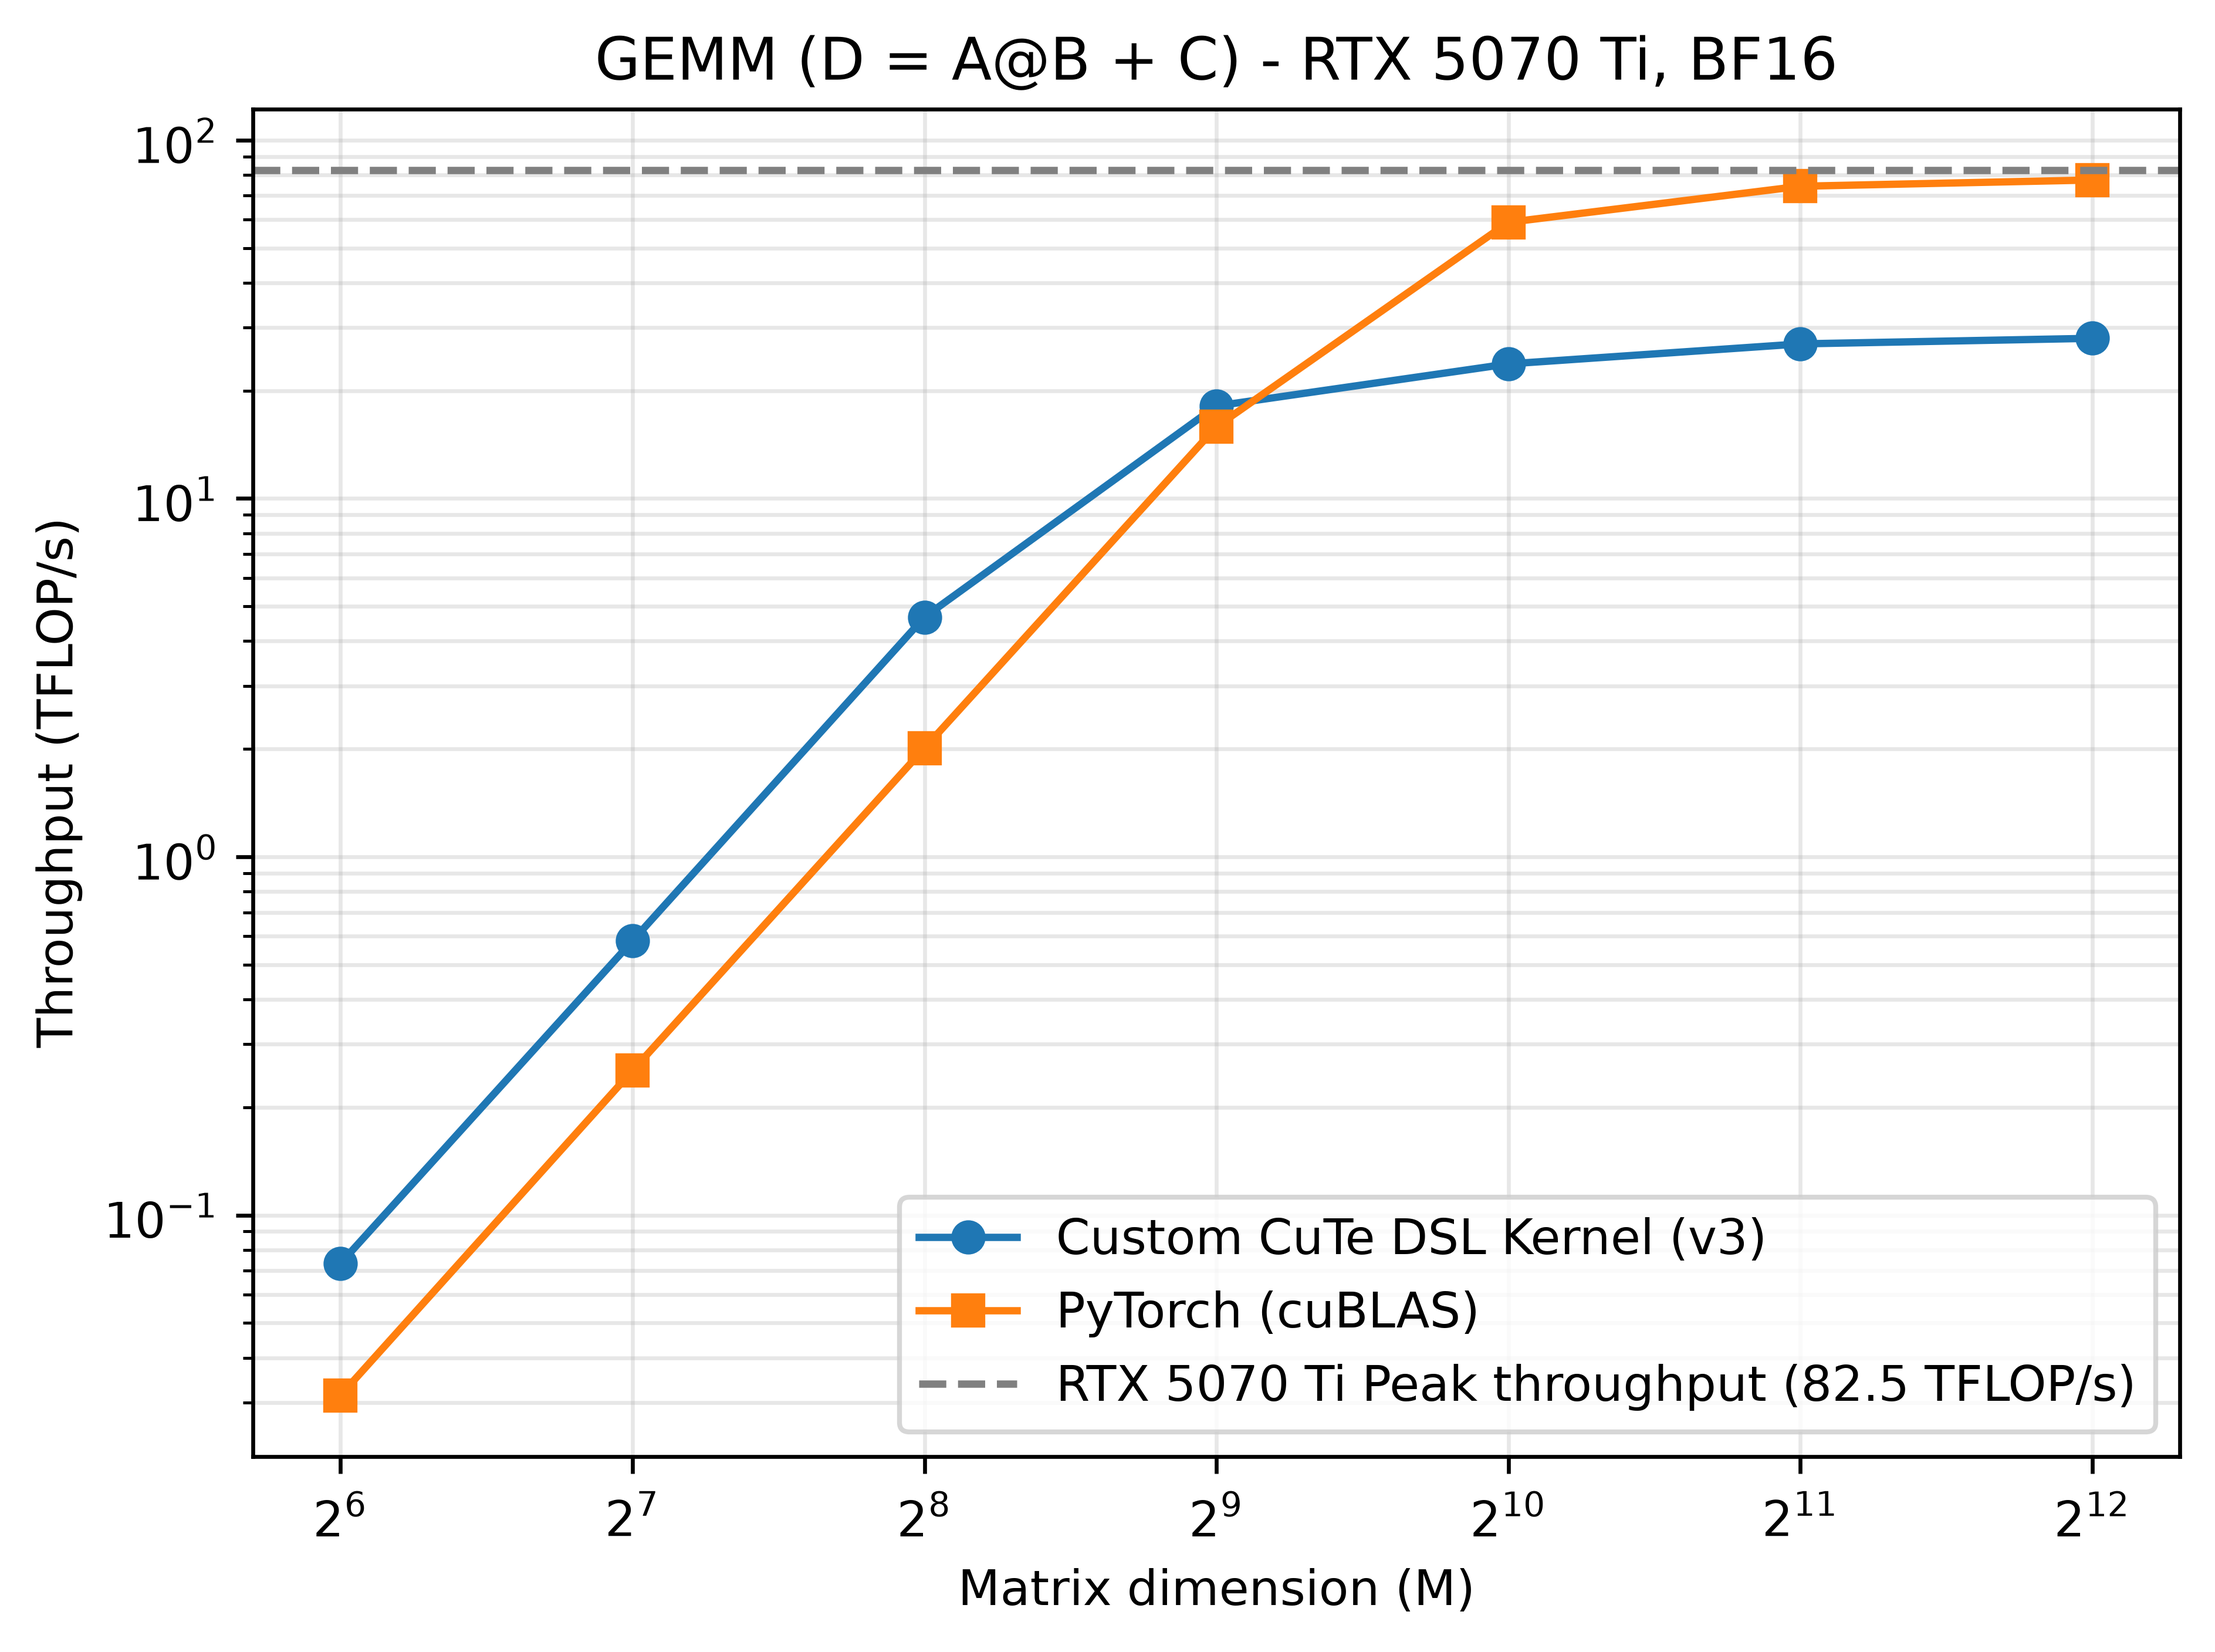
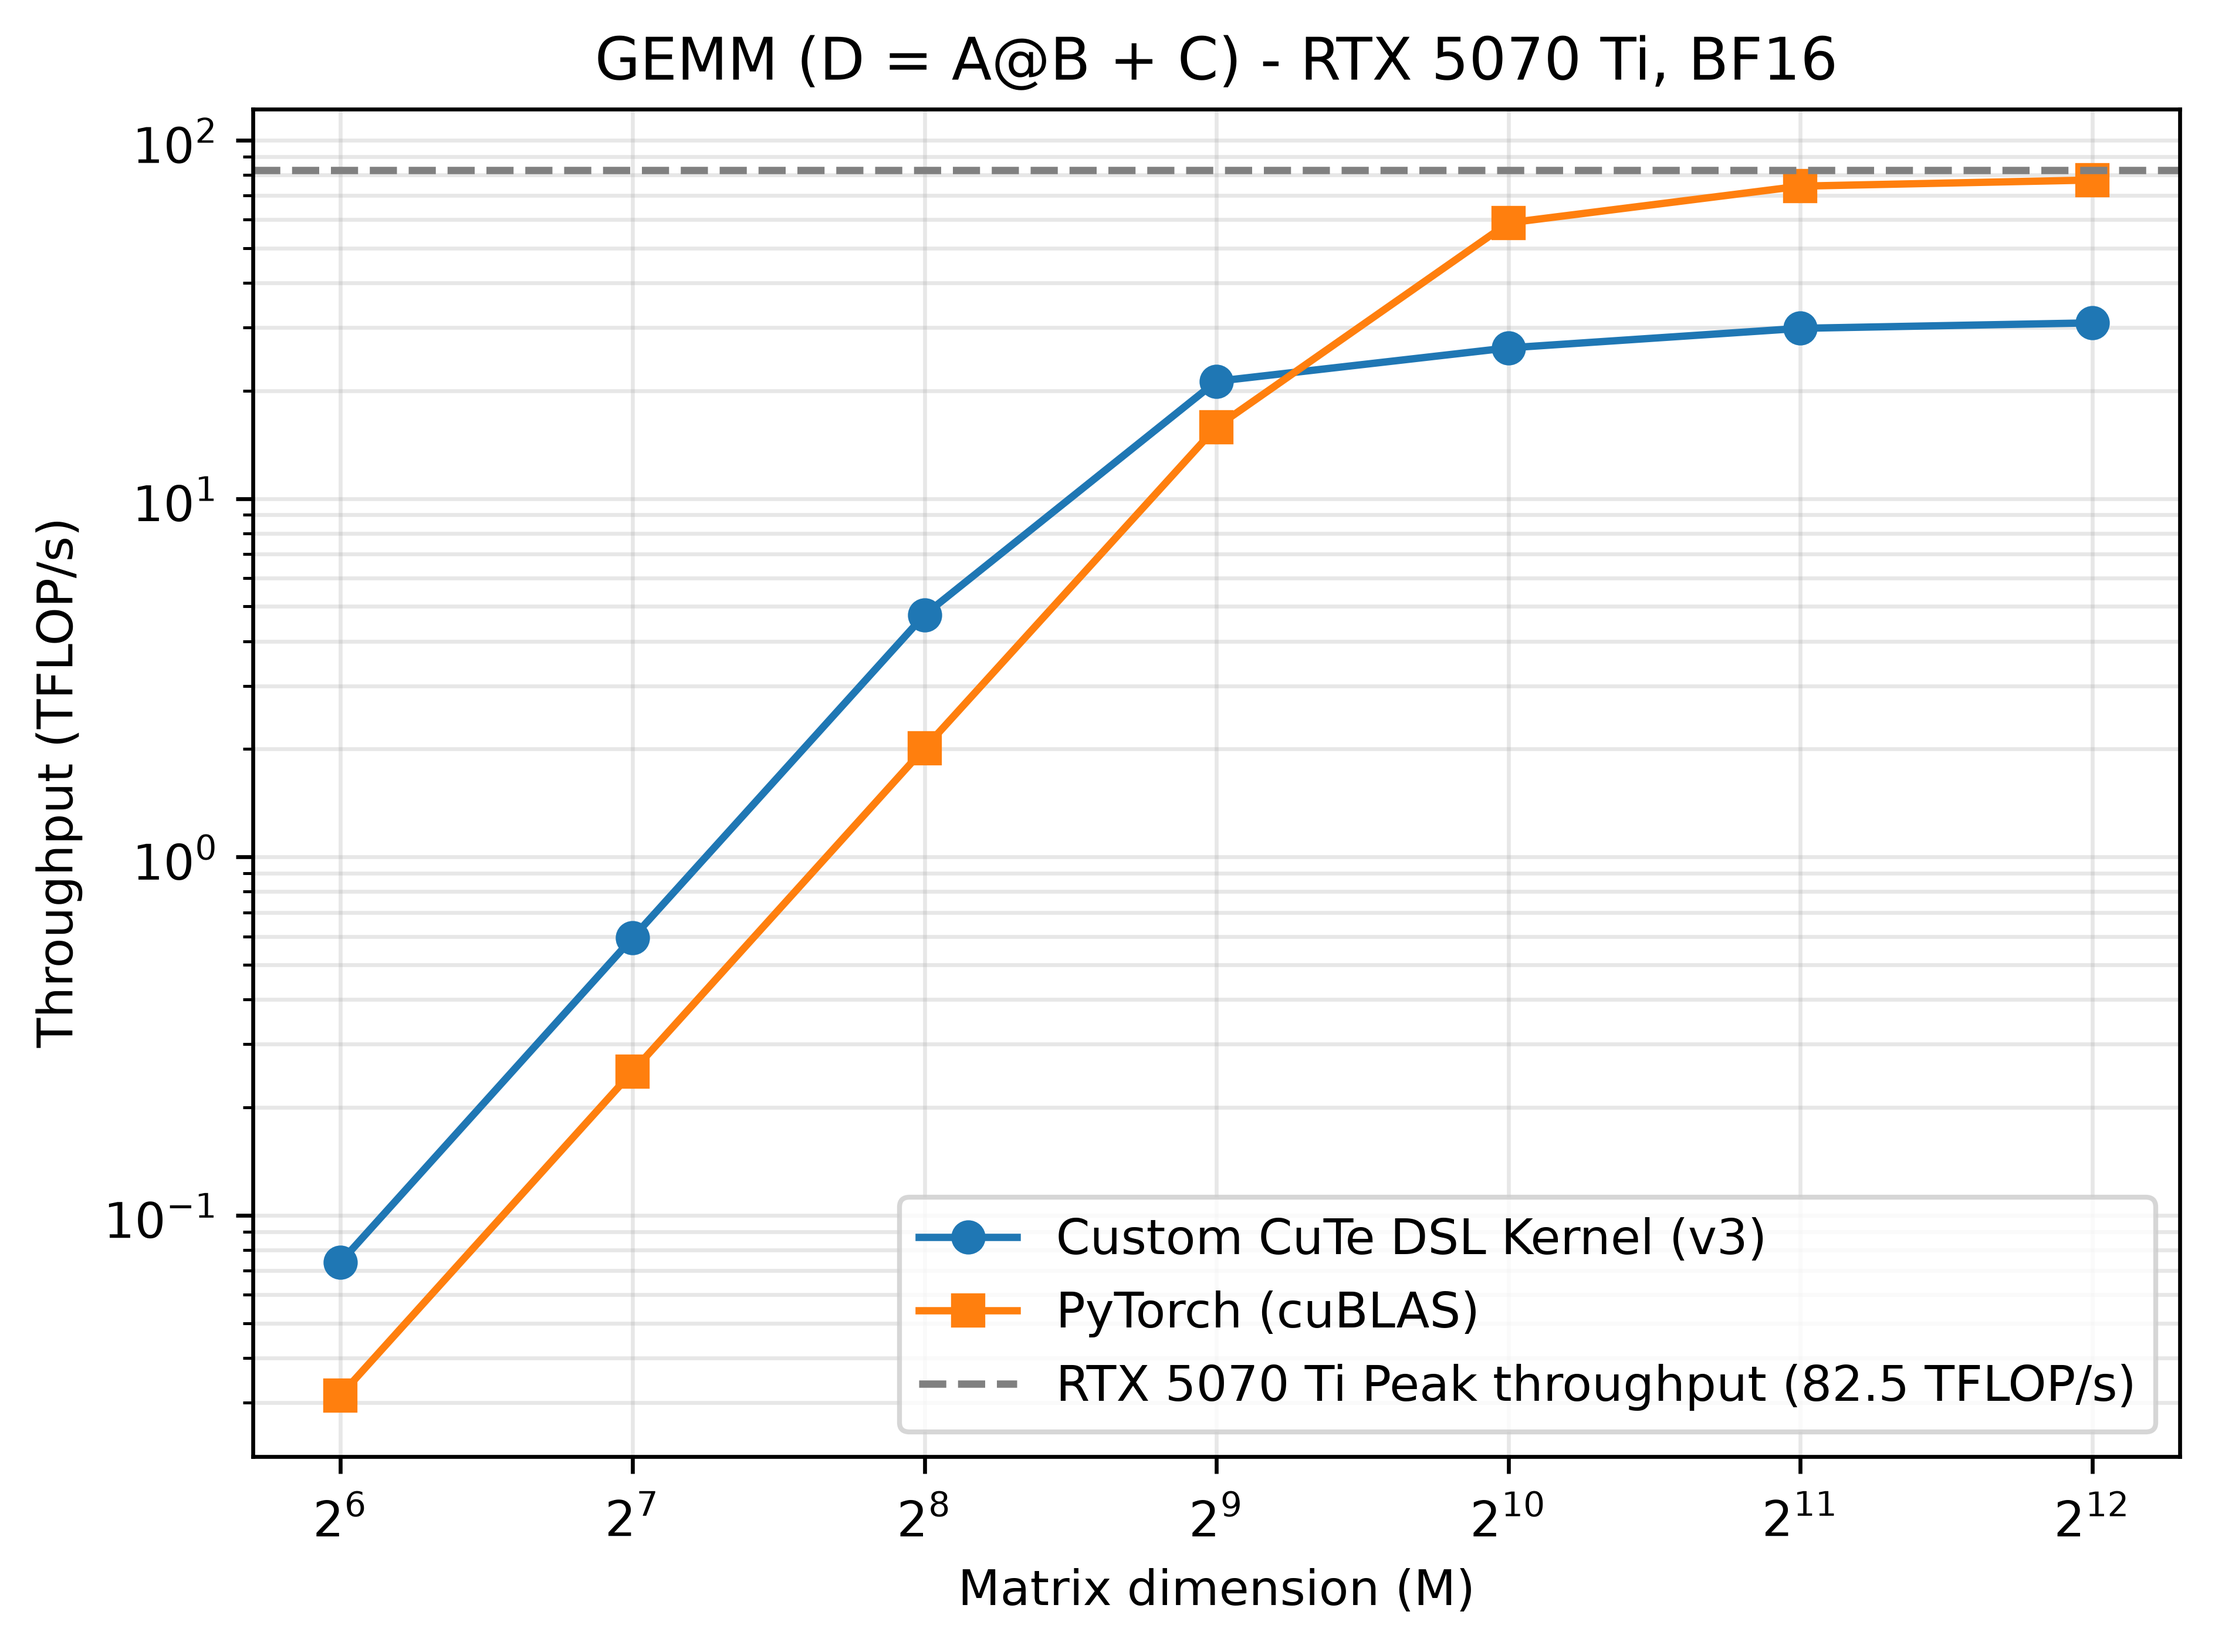
Update gemm_v3 for less catastrophic performance

Changed region(s): [[0.4339, 0.1854, 0.9608, 0.3709]]

diff --git a/src/gemm_v3.py b/src/gemm_v3.py
@@ -6,6 +6,14 @@ from math import prod
 from cutlass.cute.runtime import from_dlpack
 
 
+@cute.jit
+def _flat_stage(s : cute.Tensor, i : cutlass.Numeric):
+    s_grouped = cute.group_modes(s[(None, (None, None, i))], 1, 3)
+    s_coalesced = cute.coalesce(s_grouped, target_profile=(1, 1))
+    return s_coalesced
+
+
+
 @cute.kernel
 def _kernel_gemm_v3(
     mA : cute.Tensor,
@@ -25,6 +33,8 @@ def _kernel_gemm_v3(
     bs_n : cutlass.Constexpr,
     bs_k : cutlass.Constexpr,
     num_stages : cutlass.Constexpr,
+    nb_k_steps : cutlass.Constexpr,
+    size_atom_k : cutlass.Constexpr,
     
 ):
     """
@@ -47,17 +57,14 @@ def _kernel_gemm_v3(
     smem = cutlass.utils.SmemAllocator()
     sA = smem.allocate_tensor(
         mA.dtype,
-        cute.make_ordered_layout((bs_m, num_stages*bs_k), order=(1, 0)),
-        byte_alignment=16,
+        cute.make_ordered_layout((bs_m, (size_atom_k, nb_k_steps, num_stages)), order=(1, 0)),
+        byte_alignment=128,
     )
     sB = smem.allocate_tensor(
         mB.dtype,
-        cute.make_ordered_layout((bs_n, num_stages*bs_k), order=(1, 0)),
-        byte_alignment=16,
+        cute.make_ordered_layout((bs_n, (size_atom_k, nb_k_steps, num_stages)), order=(1, 0)),
+        byte_alignment=128,
     )
-    
-    sA = cute.logical_divide(sA, (None, bs_k))      # dividing sA in num_stages tensors (bs_m, bs_k)
-    sB = cute.logical_divide(sB, (None, bs_k))      # same for sB
     ##
     
     ## Loading C elements to reegisters
@@ -86,8 +93,8 @@ def _kernel_gemm_v3(
         tAgA = thr_copy_g2s_mk.partition_S(gA)
         tAgB = thr_copy_g2s_nk.partition_S(gB)
         
-        tAsA = thr_copy_g2s_mk.partition_D(sA[(None, (None, i))])
-        tAsB = thr_copy_g2s_nk.partition_D(sB[(None, (None, i))])
+        tAsA = thr_copy_g2s_mk.partition_D(_flat_stage(sA, i))
+        tAsB = thr_copy_g2s_nk.partition_D(_flat_stage(sB, i))
         
         cute.copy(thr_copy_g2s_mk, tAgA, tAsA)
         cute.copy(thr_copy_g2s_nk, tAgB, tAsB)
@@ -97,6 +104,7 @@ def _kernel_gemm_v3(
     ## Main loop
     for k in cutlass.range(nb_tiles_k):
         
+        ## Async copy if not out of bound of tile
         if k <= (nb_tiles_k - num_stages):
             
             part_of_tile = (k+num_stages-1)%num_stages
@@ -110,36 +118,63 @@ def _kernel_gemm_v3(
             tAgA = thr_copy_g2s_mk.partition_S(gA)
             tAgB = thr_copy_g2s_nk.partition_S(gB)
             
-            tAsA = thr_copy_g2s_mk.partition_D(sA[(None, (None, part_of_tile))])
-            tAsB = thr_copy_g2s_nk.partition_D(sB[(None, (None, part_of_tile))])
+            tAsA = thr_copy_g2s_mk.partition_D(_flat_stage(sA, part_of_tile))
+            tAsB = thr_copy_g2s_nk.partition_D(_flat_stage(sB, part_of_tile))
             
             cute.copy(thr_copy_g2s_mk, tAgA, tAsA)
             cute.copy(thr_copy_g2s_nk, tAgB, tAsB)
-            
+        ##
+        
         cute.arch.cp_async_commit_group()
         cute.arch.cp_async_wait_group(num_stages-1)
         cute.arch.barrier()
         
-        tile_sA_sB = (None, (None, k%num_stages))
+        ## First ldmatrix for hiding latency
+        buffer_part = k%num_stages
+        first_part_tile_sA_sB = (None, (None, 0, buffer_part))
         
-        tCsA = thr_copy_s2r_mk.partition_S(sA[tile_sA_sB])
-        tCsB = thr_copy_s2r_nk.partition_S(sB[tile_sA_sB])
+        tCsA = thr_copy_s2r_mk.partition_S(sA[first_part_tile_sA_sB])
+        tCsB = thr_copy_s2r_nk.partition_S(sB[first_part_tile_sA_sB])
         
-        tCrA = tiled_mma.make_fragment_A(thr_mma.partition_A(sA[tile_sA_sB]))
-        tCrB = tiled_mma.make_fragment_B(thr_mma.partition_B(sB[tile_sA_sB]))
+        tCrA_actual = tiled_mma.make_fragment_A(thr_mma.partition_A(sA[first_part_tile_sA_sB]))
+        tCrB_actual = tiled_mma.make_fragment_B(thr_mma.partition_B(sB[first_part_tile_sA_sB]))
         
-        cute.copy(tiled_copy_s2r_mk, tCsA, thr_copy_s2r_mk.retile(tCrA))
-        cute.copy(tiled_copy_s2r_nk, tCsB, thr_copy_s2r_nk.retile(tCrB))
+        cute.copy(tiled_copy_s2r_mk, tCsA, thr_copy_s2r_mk.retile(tCrA_actual))
+        cute.copy(tiled_copy_s2r_nk, tCsB, thr_copy_s2r_nk.retile(tCrB_actual))
+        ##
         
-        cute.gemm(tiled_mma, rAcc, tCrA, tCrB, rAcc)
-        
+        ## Inner Loop to load parts of buffer
+        for k_step in cutlass.range_constexpr(nb_k_steps):
+            
+            tCrA = tCrA_actual
+            tCrB = tCrB_actual
+            
+            if k_step < nb_k_steps -1 :
+                tile_sA_sB = (None, (None, k_step+1, buffer_part))
+                tCsA = thr_copy_s2r_mk.partition_S(sA[tile_sA_sB])
+                tCsB = thr_copy_s2r_nk.partition_S(sB[tile_sA_sB])
+                
+                tCrA_next = tiled_mma.make_fragment_A(thr_mma.partition_A(sA[tile_sA_sB]))
+                tCrB_next = tiled_mma.make_fragment_B(thr_mma.partition_B(sB[tile_sA_sB]))
+                
+                cute.copy(tiled_copy_s2r_mk, tCsA, thr_copy_s2r_mk.retile(tCrA_next))
+                cute.copy(tiled_copy_s2r_nk, tCsB, thr_copy_s2r_nk.retile(tCrB_next))   # problem with compute-sanitizer
+                
+                tCrA_actual = tCrA_next
+                tCrB_actual = tCrB_next
+
+            cute.gemm(tiled_mma, rAcc, tCrA, tCrB, rAcc)
+            
         cute.arch.barrier()
-    ##
+        ##
     
     ## Epilogue for storing the result in D
     tCrC.store(rAcc.load().to(cutlass.BFloat16))
     
-    sD = sA     # reassigning the shared memory buffer to store elements of D
+    sD = cute.make_tensor(
+        sA.iterator,
+        cute.make_ordered_layout((bs_m, bs_n), order=(1, 0)),
+    )
     tCsD = thr_copy_r2s_mn.partition_D(sD)
     
     cute.copy(tiled_copy_r2s_mn, thr_copy_r2s_mn.retile(tCrC), tCsD)
@@ -151,7 +186,7 @@ def _kernel_gemm_v3(
     tAsD = thr_copy_s2g_mn.partition_S(sD)
     
     cute.copy(tiled_copy_s2g_mn, tAsD, tAgD)
-    ##
+    # ##
     
     
 
@@ -184,9 +219,9 @@ def _host_kernel_gemm_v3(
     )
     
     permutation_mnk = (
-        shape_mnk[0] * atom_layout_mnk[0] * 2,
-        shape_mnk[1] * atom_layout_mnk[1] * 4,
-        shape_mnk[2] * atom_layout_mnk[2],
+        shape_mnk[0] * atom_layout_mnk[0] * 2,  # 64
+        shape_mnk[1] * atom_layout_mnk[1] * 4,  # 64
+        shape_mnk[2] * atom_layout_mnk[2],      # 16
     )
     
     tiled_mma = cute.make_tiled_mma(
@@ -202,7 +237,7 @@ def _host_kernel_gemm_v3(
     
     bs_m = cute.size(permutation_mnk[0])
     bs_n = cute.size(permutation_mnk[1])
-    bs_k = cute.size(permutation_mnk[2])
+    bs_k = 64
     ##
     
     ## Set up for tiled_copy
@@ -322,6 +357,8 @@ def _host_kernel_gemm_v3(
     grid_m = cute.ceil_div(M, bs_m)
     grid_n = cute.ceil_div(N, bs_n)
     nb_tiles_k = cute.ceil_div(K, bs_k)
+    nb_k_steps = cute.ceil_div(bs_k, shape_mnk[2])
+    size_atom_k = shape_mnk[2]
     
     args = (
         mA, mB, mC, mD,
@@ -335,15 +372,16 @@ def _host_kernel_gemm_v3(
         copy_atom_g2s_mn,
         nb_tiles_k,
         bs_m, bs_n, bs_k,
-        num_stages, 
+        num_stages,
+        nb_k_steps,
+        size_atom_k,
     )
-    
     _kernel_gemm_v3(*args).launch(
         grid=[grid_m, grid_n, 1],
         block=[nb_threads, 1, 1],
     )
-    ##
     
+    ##
     
 
 def gemm_v3(
@@ -380,7 +418,7 @@ def gemm_v3(
     d_ = from_dlpack(d, assumed_align=16)
     ##
     
-    num_stages = 4
+    num_stages = 2
     
     _host_kernel_gemm_v3(a_, b_, c_, d_, num_stages)
     

diff --git a/benchmarks/benchmark_gemm_v3.py b/benchmarks/benchmark_gemm_v3.py
@@ -42,7 +42,7 @@ def benchmark_gemm_v3():
         c_ = from_dlpack(c, assumed_align=16)
         d_ = from_dlpack(d, assumed_align=16)
         
-        num_stages=4
+        num_stages=2
 
         compiled = cute.compile(_host_kernel_gemm_v3, a_, b_, c_, d_, num_stages)
 
